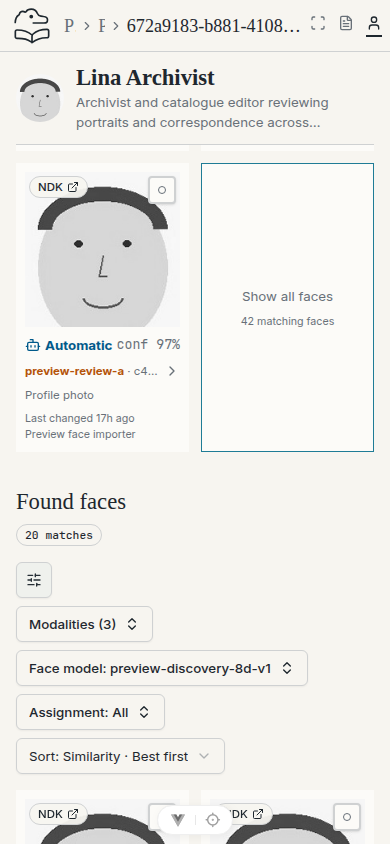
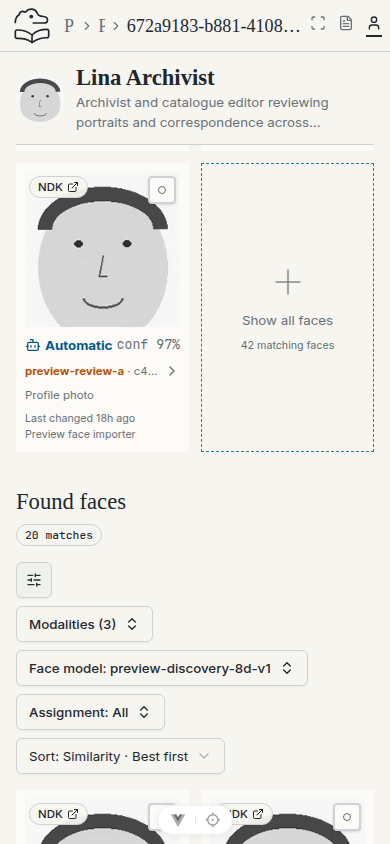
Give the face overflow tile a lightweight transparent plus treatment

diff --git a/people-gator-app/src/components/custom/PersonFacesPanel.vue b/people-gator-app/src/components/custom/PersonFacesPanel.vue
@@ -1,5 +1,5 @@
 <script setup lang="ts">
-import { BadgeCheck, Image, Unlink } from '@lucide/vue'
+import { BadgeCheck, Image, Minus, Plus, Unlink } from '@lucide/vue'
 import { useElementSize } from '@vueuse/core'
 import { computed, ref, watch } from 'vue'
 import { useRoute } from 'vue-router'
@@ -162,7 +162,7 @@ watch(
       as="button"
       type="button"
       variant="outline"
-      class="min-w-0 justify-center gap-2 rounded-none bg-card p-2 text-center text-muted-foreground shadow-none hover:border-accent hover:text-primary disabled:opacity-50"
+      class="min-w-0 cursor-pointer justify-center gap-2 rounded-none border-dashed border-border/40 bg-transparent p-4 text-center text-muted-foreground shadow-none transition-colors hover:border-border hover:bg-accent/30 hover:text-foreground disabled:cursor-default disabled:opacity-50"
       :class="expanded ? 'col-span-full flex-row' : 'h-full min-h-40 flex-col'"
       data-face-overview-toggle
       :aria-label="expanded ? 'Show less' : 'Show all faces'"
@@ -171,7 +171,13 @@ watch(
       :disabled="busy"
       @click="toggleExpansion"
     >
-      <span>{{ expanded ? 'Show less' : 'Show all faces' }}</span>
+      <component
+        :is="expanded ? Minus : Plus"
+        :class="expanded ? 'size-4' : 'size-10 text-muted-foreground/60'"
+        :stroke-width="1.25"
+        aria-hidden="true"
+      />
+      <span class="font-light">{{ expanded ? 'Show less' : 'Show all faces' }}</span>
       <small>{{ matchingCount ?? faces.length }} matching faces</small>
     </Item>
     <div v-if="expanded && hasMore" class="col-span-full flex flex-wrap gap-2">

diff --git a/people-gator-api/src/people_gator_api/seeding/preview.py b/people-gator-api/src/people_gator_api/seeding/preview.py
@@ -737,6 +737,7 @@ async def seed_preview(database: Database, filesystem: Filesystem) -> SeedResult
                 f"/pages/{statistics_page.page_id}#link-statistics"
             ),
             # Issue #33: every list sorts its complete result set before paging.
+            # Existing portraits demonstrate the lightweight plus tile in either theme.
             "person-review-overflow-card": f"/people/{manifest.entities['review']}",
             "person-review-faces": f"/people/{manifest.entities['review']}",
             "person-review-mentions": f"/people/{manifest.entities['review']}?tab=mentions&mention_view=groups",

diff --git a/docs/evidence/issue80/README.md b/docs/evidence/issue80/README.md
@@ -10,7 +10,8 @@ Checks executed against the seeded API:
 - Actual collapsed grid: 13 faces and an action card in two desktop rows, three
   faces and an action card in two mobile rows;
   expansion shows all 42, collapse restores two rows, and resizing to 700px
-  recalculates two rows.
+  recalculates two rows. The action tile has a transparent background, a subtle
+  dashed outline, a thin plus icon and muted text in light and dark themes.
 - Identity remains below the 52px sticky navigation deep in Faces. No horizontal overflow
   across captured states. Section tabs fit on one mobile row.
 - Keyboard Enter expands mobile filters; Space selects a mention independently
